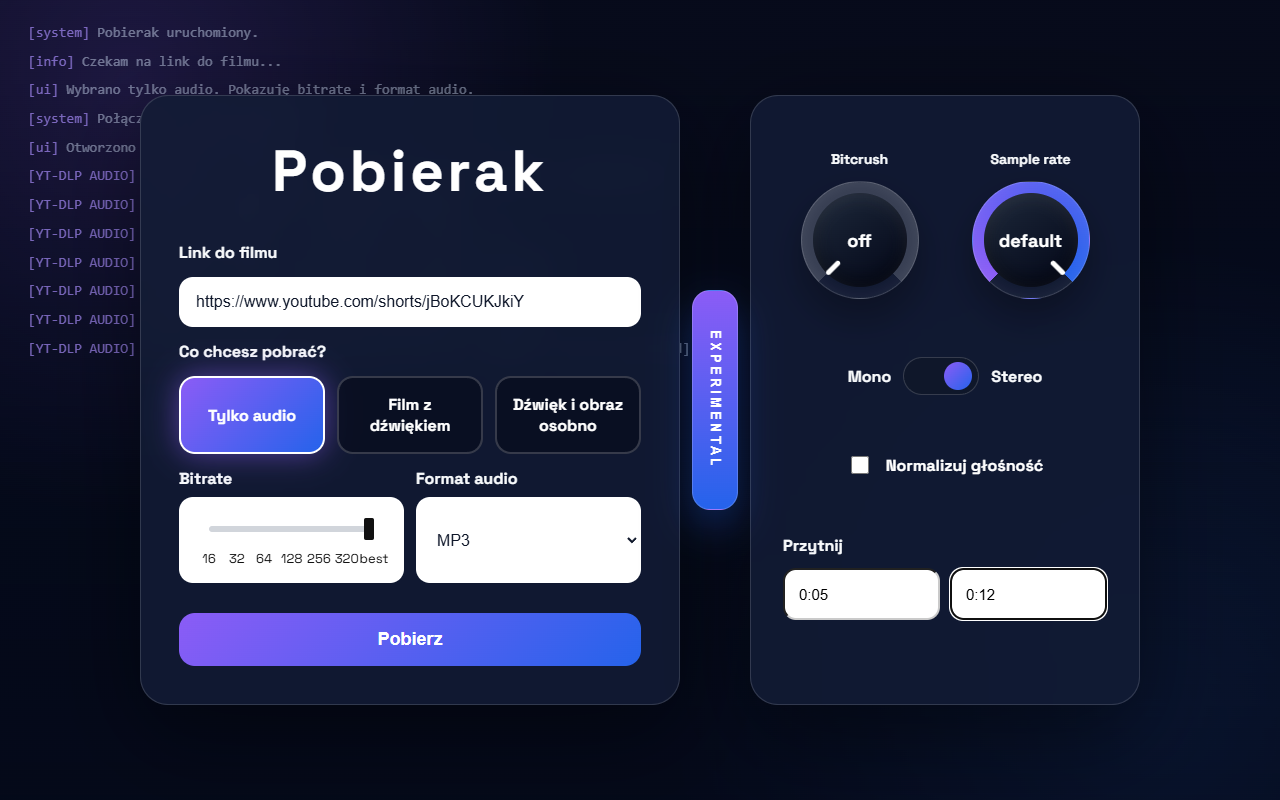
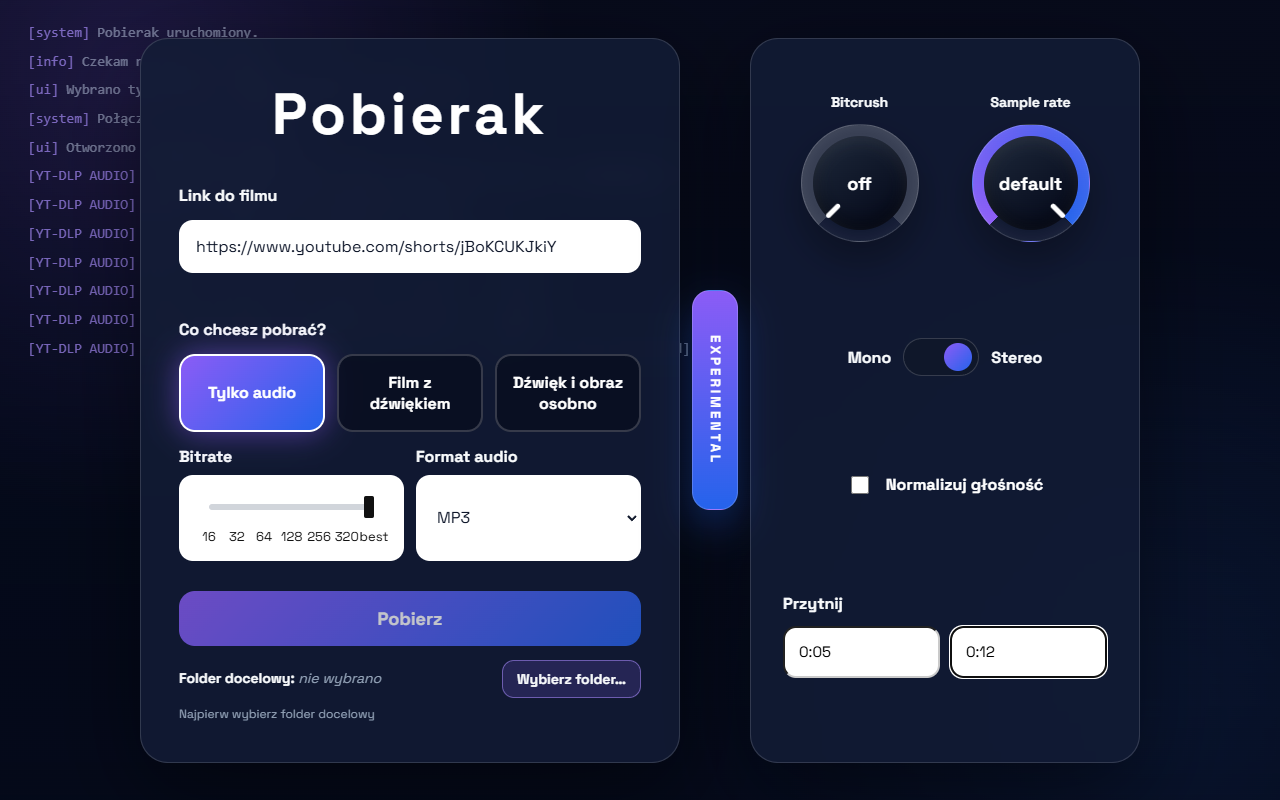
GH-2a: README zgodne ze stanem po zmianach
Folder docelowy, usuniety HOST z tabeli ustawien, rozdzielczosci, anulowanie,
sekcja Linki, odswiezony zrzut ekranu; dostosowany testy/readme.test.js.

diff --git a/testy/readme.test.js b/testy/readme.test.js
@@ -50,7 +50,7 @@ test("README.md istnieje, jest w UTF-8 bez BOM i po polsku", () => {
 test("README ma wszystkie wymagane sekcje", () => {
     [
         "Wymagania", "Instalacja", "Windows", "macOS", "Linux", "Uruchamianie", "Na czym sprawdzono",
-        "Gdy YouTube przestaje działać", "Ustawienia", "Folder `bin`", "Panel EXPERIMENTAL", "Pobrane pliki", "Licencja"
+        "Gdy YouTube przestaje działać", "Ustawienia", "Folder `bin`", "Panel EXPERIMENTAL", "Linki", "Folder docelowy i pobieranie", "Licencja"
     ].forEach(title => section(title));
 
     // sekcje systemow sa czescia "Instalacja"
@@ -202,15 +202,15 @@ test("zmienne srodowiskowe z README sa tymi, ktore czyta app.js, z tymi samymi w
     assert.ok(appSource.includes('resolveBinary("FFMPEG_PATH", "ffmpeg")'));
 
     assert.ok(tableRow(settings, "`PORT`").includes("| `3000` |"));
-    assert.ok(tableRow(settings, "`HOST`").includes("| `127.0.0.1` |"));
-    assert.ok(tableRow(settings, "`HOST`").includes("`0.0.0.0`"));
+    // HOST zostaje w kodzie, ale README go nie opisuje (decyzja wlasciciela, zadanie GH-2a)
+    assert.ok(!/`HOST`|HOST=/.test(readme), "README nie ma opisywac HOST");
     tableRow(settings, "`YTDLP_PATH`");
     tableRow(settings, "`FFMPEG_PATH`");
 
     // README nie opisuje zmiennych, ktorych program nie czyta
     const described = settings.split(/\r?\n/).filter(line => /^\| `[A-Z_]+` \|/.test(line)).length;
 
-    assert.equal(described, 4);
+    assert.equal(described, 3);
 
     // przyklad dla trzech powlok
     assert.match(settings, /^set PORT=3001$/m);
@@ -263,14 +263,38 @@ test("formaty wymienione w README to formaty przyjmowane przez program", () => {
     assert.ok(intro.includes("Dźwięk i obraz osobno"));
 });
 
-test("czas zycia plikow w downloads zgadza sie z app.js", () => {
-    const files = section("Pobrane pliki");
+test("folder docelowy: opis wyboru folderu, przycisku Pokaz w folderze, rozdzielczosci i anulowania; bez pobierania przez przegladarke", () => {
+    const folder = section("Folder docelowy i pobieranie");
     const { fileMaxAgeMinutes } = require(path.join(projectDir, "app.js"));
     const interval = Number(appSource.match(/const cleanupIntervalMinutes = (\d+);/)[1]);
 
-    assert.ok(files.includes(`usuwane po ${fileMaxAgeMinutes} minutach`));
-    assert.ok(files.includes(`co ${interval} minut`));
-    assert.ok(files.includes("`downloads`"));
+    assert.match(folder, /Bez wybranego folderu pobrać się nie da/);
+    assert.match(folder, /od razu w tym folderze/);
+    assert.ok(folder.includes("Pokaż w folderze"));
+    assert.ok(readFile(path.join("public", "script.js")).includes("Pokaż w folderze"));
+    assert.ok(readFile(path.join("public", "index.html")).includes("Wybierz folder"));
+
+    assert.match(folder, /Domyślnie wybrane jest 1080p/);
+    assert.match(folder, /1440p i 2160p są dostępne tylko dla MKV/);
+    assert.match(folder, /H\.264.*1080p.*„Best”/s);
+    assert.match(folder, /Zamknięcie albo odświeżenie karty.*przerywa/);
+
+    // downloads to tylko miejsce robocze; czasy sprzatania zgadzaja sie z app.js
+    assert.ok(folder.includes(`starsze niż ${fileMaxAgeMinutes} minut`));
+    assert.ok(folder.includes(`co ${interval} minut`));
+
+    // README nie opisuje pobierania pliku przez przegladarke
+    assert.ok(!/folderu pobierania przeglądarki|przeglądarka zapisuje|Link pod przyciskiem/.test(readme));
+    assert.ok(!readme.includes("HOST="));
+});
+
+test("linki: YouTube (pojedynczy film, short, zakonczona transmisja) i Pinterest, reszta odrzucana", () => {
+    const links = section("Linki");
+
+    assert.match(links, /YouTube i Pinterest/);
+    assert.ok(links.includes("youtube.com/shorts/") && links.includes("pinterest.com/pin/"));
+    assert.match(links, /pojedynczy film, short albo zapis zakończonej transmisji/);
+    assert.match(links, /Playlisty, kanały i trwające transmisje są odrzucane/);
 });
 
 test("licencja: MIT z odnosnikiem do pliku LICENSE, zgodna z package.json", () => {
